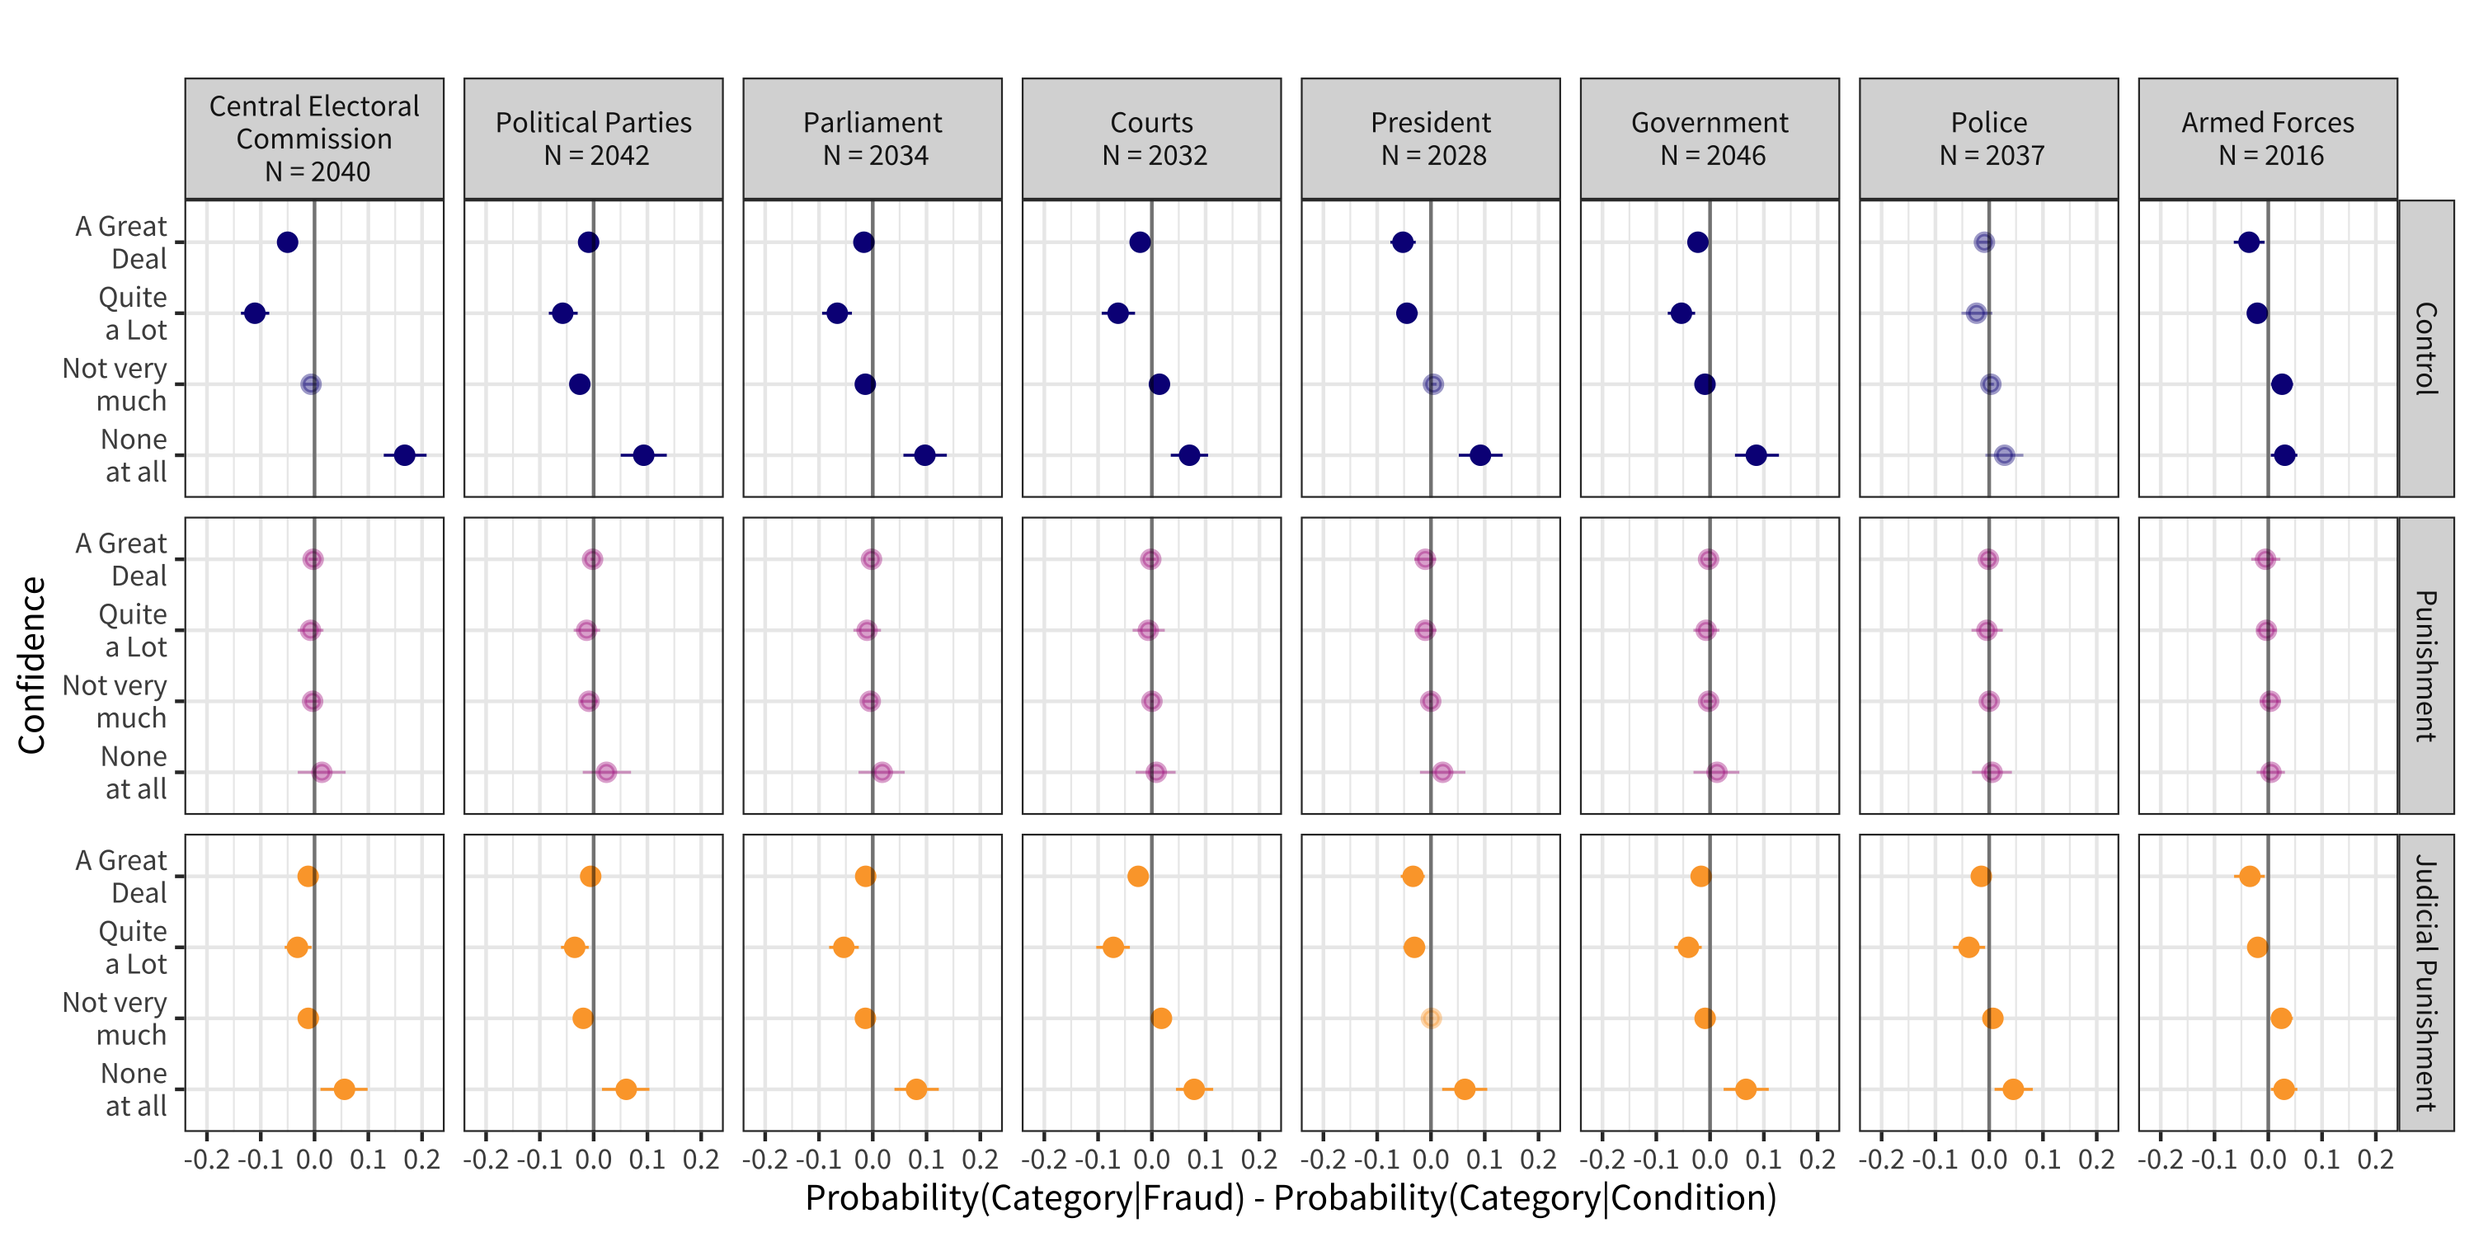
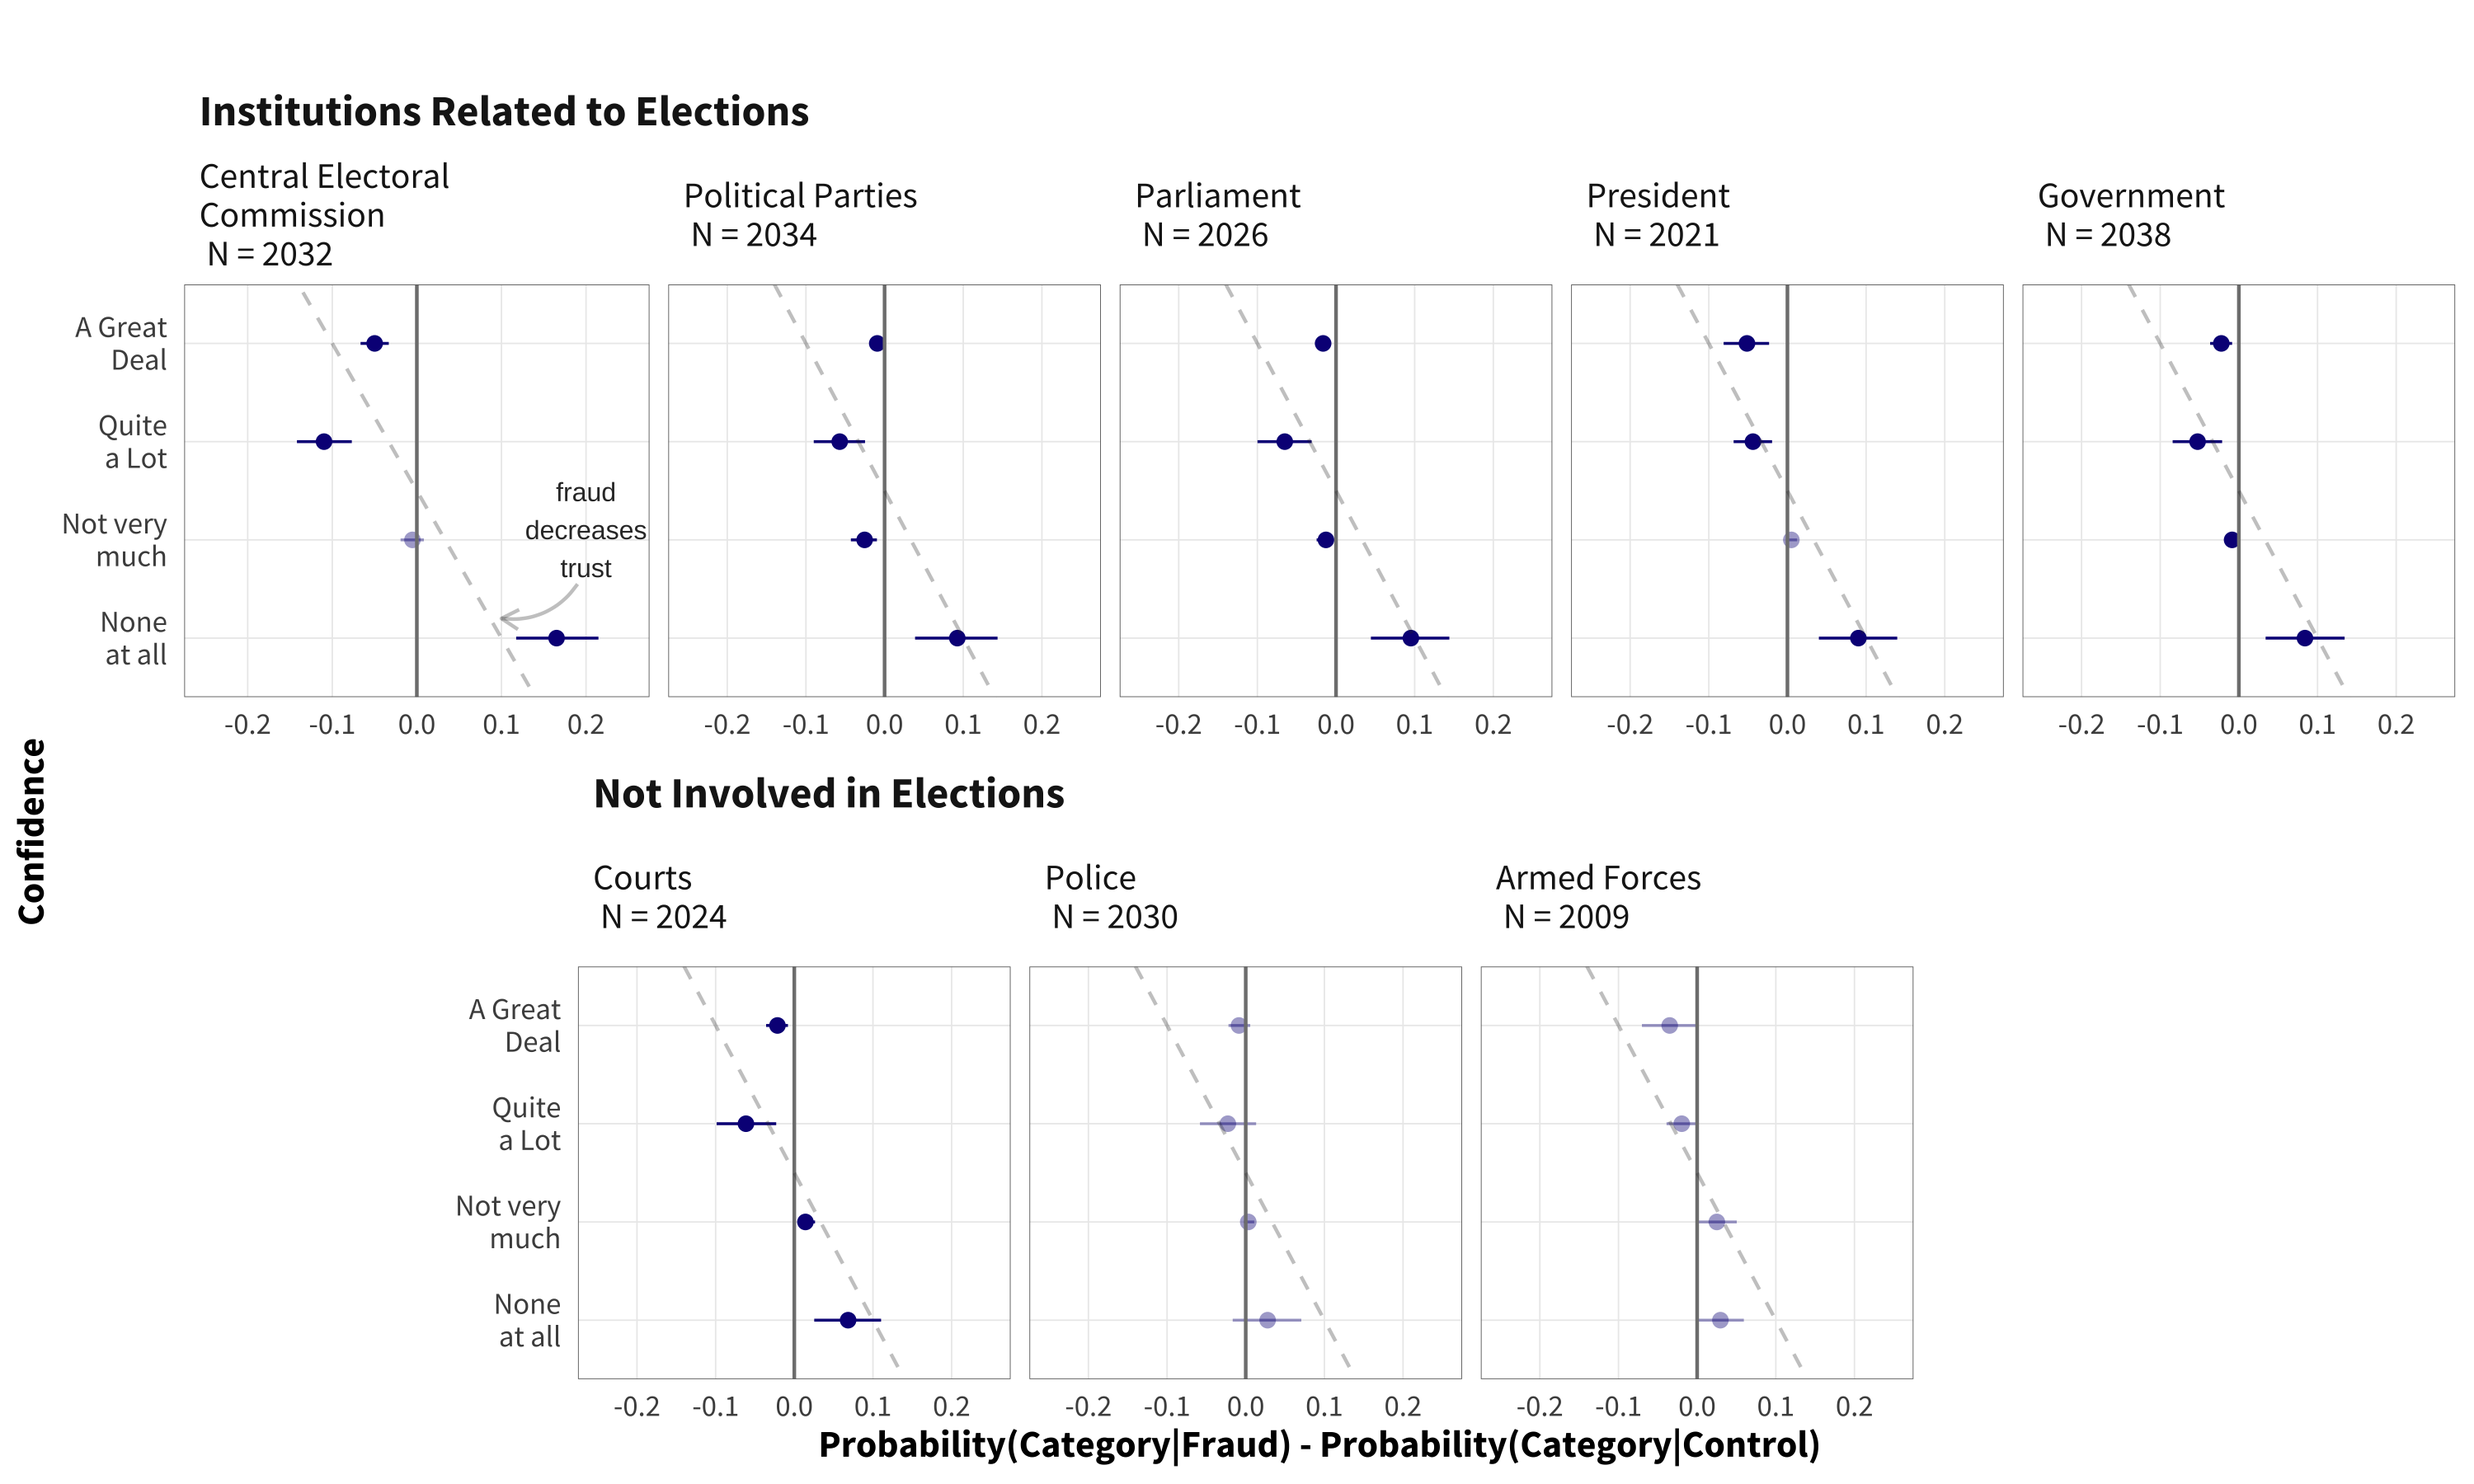
Updates from Overleaf

Changed region(s): [[0.0, 0.0613, 0.992, 1.0]]

diff --git a/main.tex b/main.tex
@@ -381,23 +381,14 @@ Differences for the two punishment conditions calculated separately for opponent
 
 % Given that for one of the punishment conditions another institution of a political system is explicitly mentioned, extrapolation may be more likely to occur there, which is why we treat these conditions separately in the analysis. 
 
+% Plan for the section
+% Hypothesis-testing results first (Bayes factor discussion)
+% QoI next
+
 We present the results for pooled data from all three countries under investigation: figure \ref{fig:probs_ol_main_pol} contains the raw probabilities of selecting an answer-category for the full sample of over 2000 respondents, and the main specification from equation \ref{eq:specification}. 
 The sample size varies with the number of complete observations per institution. 
 From  predicted probabilities alone, we can spot that lower trust categories are more likely to be selected in both conditions, meaning that pre-existing confidence in institutions is not likely to be high. 
 We also observe some variation in trust across the institutions: in general, confidence in the President and armed forces seems to be the highest among political institutions for respondents in both the \textit{Control} and \textit{Fraud} conditions. 
-
-
-\begin{figure}[H]
-	\centering
-	\includegraphics[width=\linewidth,trim=4 4 4 4,clip]{figs/probs_pooled.png}
-	\caption{The Effects of Exposure to Fraud Information on Confidence in Political Institutions.  \\
-		\footnotesize{Notes: Plots depict medians and 89\% highest-density continuous intervals for probabilities of choosing respective categories based on draws from the expectation of the posterior predictive distributions. Probabilities are calculated with ordered logit model estimates.
-		Transparent point ranges include zero in the 89\% HDCI.}}
-	\singlespacing
-	\raggedright
-	\label{fig:probs_ol_main_pol}
-\end{figure}
-
 
 To further explore the effect of treatments, figure \ref{fig:diffs-pooled} depicts the respective differences between conditions. 
 The dashed line schematically depicts the hypothesized effect, i.e. the point estimates should be somewhat following this trend if the hypothesis is supported by the data. 
@@ -407,17 +398,29 @@ Transparent point ranges include zero in the 89\% highest-density continuous int
 
 \begin{figure}[H]
 	\centering
-	\includegraphics[width=\linewidth,trim=4 4 4 4,clip]{figs/diffs_pooled_control.png}
+	\includegraphics[width=\linewidth,trim=4 4 4 4,clip]{figs/diffs_ol_main_pol.png}
 	\caption{The Effects of Exposure to Fraud Information on Confidence in Political Institutions.  \\
 		\footnotesize{Notes: Plots depict medians and 89\% highest-density continuous intervals for differences in probabilities for choosing respective categories based on draws from the expectation of the posterior predictive distributions. Probabilities are calculated with ordered logit model estimates.
 			%  Positive values on the horizontal axis indicate that the probability of selecting a category is higher in fraud condition than in the other one. Conversely, negative values mean that respondent's probability to choose this was lower in fraud condition. 
-			Dashed line schematically depicts the hypothesized relationship between categories, i.e. point estimates would loosely follow the pattern of the dashed line if the relationship between trust and fraud information is as expected. Transparent point ranges include zero in the 89\% HDCI.
+			Dashed line schematically depicts the hypothesized relationship between categories, i.e. point estimates would loosely follow the pattern of the dashed line if the relationship between trust and fraud information is as expected. Transparent point ranges include zero in the 95\% HDCI.
 	Data were collected in April-June 2021 via an original online survey.}}
 	\singlespacing
 	\raggedright
 	\label{fig:main}
 \end{figure}
 
+\begin{figure}[H]
+	\centering
+	\includegraphics[width=\linewidth,trim=4 4 4 4,clip]{figs/diffs_ol_main_npol.png}
+	\caption{The Effects of Exposure to Fraud Information on Confidence in Non-political Institutions.  \\
+		\footnotesize{Notes: Plots depict medians and 89\% highest-density continuous intervals for differences in probabilities for choosing respective categories based on draws from the expectation of the posterior predictive distributions. Probabilities are calculated with ordered logit model estimates.
+			%  Positive values on the horizontal axis indicate that the probability of selecting a category is higher in fraud condition than in the other one. Conversely, negative values mean that respondent's probability to choose this was lower in fraud condition. 
+			Dashed line schematically depicts the hypothesized relationship between categories, i.e. point estimates would loosely follow the pattern of the dashed line if the relationship between trust and fraud information is as expected. Transparent point ranges include zero in the 95\% HDCI.
+	Data were collected in April-June 2021 via an original online survey.}}
+	\singlespacing
+	\raggedright
+	\label{fig:main-npol}
+\end{figure}
 
 The results are in line with the expectation of the detrimental effect of fraud information on diffuse support for political institutions, consistent with hypothesis 1. 
 Though somewhat modest in size, point estimates for differences are negative for categories indicating higher levels of trust, i.e. the probability of demonstrating more confidence in institutions is higher when being exposed to the control condition than when exposed to the fraud information, and vice versa for the categories for lower trust. 
